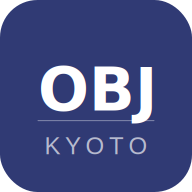
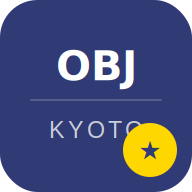
Add files via upload

Changed region(s): [[0.1562, 0.25, 0.9375, 0.9375]]

diff --git a/staff.html b/staff.html
@@ -7,12 +7,12 @@
 <style>:root{color-scheme:light only}</style>
 <link rel="stylesheet" href="https://cdn.jsdelivr.net/npm/@tabler/icons-webfont@latest/dist/tabler-icons.min.css">
 <title>OBJ スタッフ</title>
-<link rel="manifest" href="manifest.json">
+<link rel="manifest" href="manifest-staff.json">
 <meta name="apple-mobile-web-app-capable" content="yes">
 <meta name="apple-mobile-web-app-status-bar-style" content="black-translucent">
-<meta name="apple-mobile-web-app-title" content="OBJ Shift">
-<link rel="apple-touch-icon" href="icon-192.png">
-<meta name="theme-color" content="#303A74">
+<meta name="apple-mobile-web-app-title" content="OBJ Staff">
+<link rel="apple-touch-icon" href="icon-staff-192.png">
+<meta name="theme-color" content="#0F6E56">
 <style>
 *{box-sizing:border-box;margin:0;padding:0;-webkit-tap-highlight-color:transparent}
 body{font-family:-apple-system,BlinkMacSystemFont,'Helvetica Neue',sans-serif;background:#f5f5f7;color:#1d1d1f;font-size:15px}